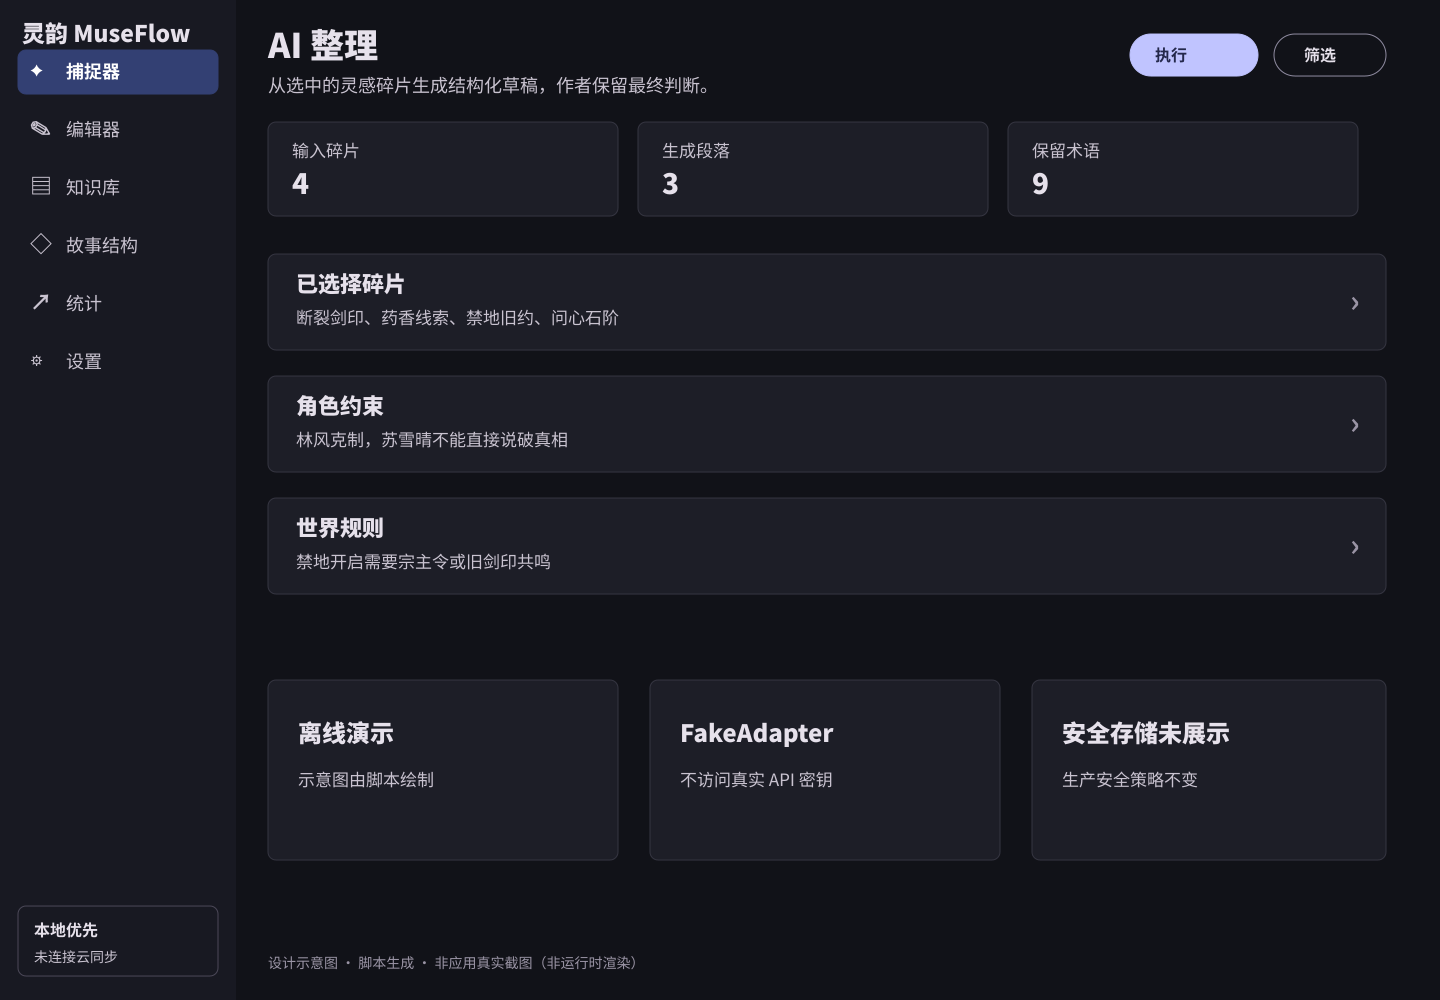
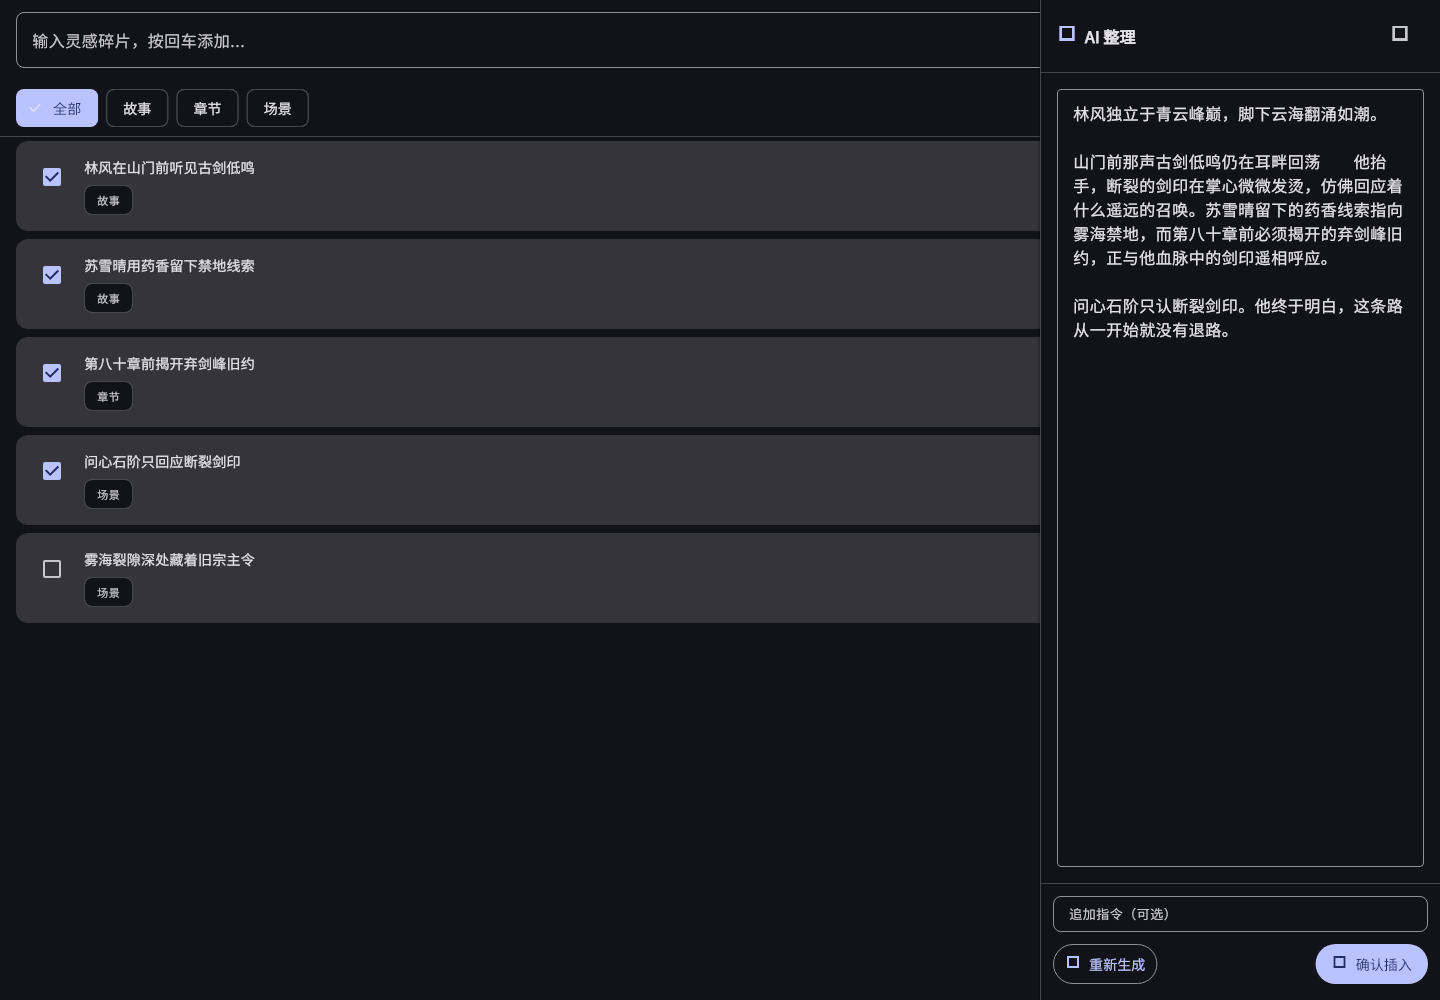
docs(readme): real golden render replaces ai-organization mockup
README #03 AI 整理 → CapturePage + SynthesisPanel 真实 widget golden 渲染（替代 SVG mockup）。
override synthesisProvider accumulatedText(修仙草稿3段)+isEditing=true 显示编辑面板。README.md/en.md
disclosure 清单 4 处加入「AI 整理(3)/AI organization(3)」。

diff --git a/test/readme_screenshots/ai_organization_test.dart b/test/readme_screenshots/ai_organization_test.dart
@@ -1,0 +1,157 @@
+/// Real widget screenshot generator for the README ai-organization image (#03).
+///
+/// Renders the **actual** [CapturePage] with the [SynthesisPanel] overlay showing
+/// a completed AI-organized draft: the "AI 整理把碎片组织成结构化草稿" view.
+///
+/// `captureProvider` is seeded with fragments (the panel overlays the capture
+/// page). `synthesisProvider` is seeded with `accumulatedText` (the synthesized
+/// draft) + `isEditing: true`, which makes CapturePage show the panel
+/// (`showPanel = isStreaming || isEditing || error`) and makes SynthesisPanel's
+/// `_buildContentArea` render the editable draft TextField (the
+/// `isEditing || accumulatedText.isNotEmpty` branch).
+///
+/// The TextField is not autofocus → no blinking cursor → no cursor flake. The
+/// panel's AnimatedContainer (250ms) is at its final state after pumpAndSettle.
+///
+/// CapturePage is body-only (hosted by AppShellScaffold's Scaffold in the real
+/// app), so the test wraps it in `Scaffold(body:)` (mirrors #02).
+///
+/// Shares the bundled universal GB2312 subset `test_assets/noto_sans_sc_subset.ttf`.
+///
+/// Regenerate after changing the page or seed data:
+///   flutter test test/readme_screenshots/ai_organization_test.dart --update-goldens
+library;
+
+import 'dart:io';
+
+import 'package:flutter/material.dart';
+import 'package:flutter/services.dart';
+import 'package:flutter_riverpod/flutter_riverpod.dart';
+import 'package:flutter_test/flutter_test.dart';
+import 'package:museflow/core/domain/fragment.dart';
+import 'package:museflow/features/ai/presentation/synthesis_notifier.dart';
+import 'package:museflow/features/capture/presentation/capture_page.dart';
+import 'package:museflow/features/capture/presentation/capture_provider.dart';
+
+void main() {
+  setUpAll(() async {
+    final bytes = await File('test_assets/noto_sans_sc_subset.ttf').readAsBytes();
+    final loader = FontLoader('Noto Sans CJK SC');
+    loader.addFont(Future.value(ByteData.sublistView(bytes)));
+    await loader.load();
+  });
+
+  testWidgets('CapturePage + SynthesisPanel renders a real 1440x1000 screenshot',
+      (tester) async {
+    tester.view.physicalSize = const Size(1440, 1000);
+    tester.view.devicePixelRatio = 1.0;
+    addTearDown(tester.view.resetPhysicalSize);
+    addTearDown(tester.view.resetDevicePixelRatio);
+
+    await tester.pumpWidget(
+      ProviderScope(
+        overrides: [
+          captureProvider.overrideWith(() => _SeededCaptureNotifier()),
+          synthesisProvider.overrideWith(() => _SeededSynthesisNotifier()),
+        ],
+        child: MaterialApp(
+          debugShowCheckedModeBanner: false,
+          theme: _screenshotTheme(),
+          home: const Scaffold(body: CapturePage()),
+        ),
+      ),
+    );
+    await tester.pumpAndSettle();
+
+    // Prove the synthesis panel + editable draft rendered: the 'AI 整理' header
+    // (a Text widget) is present, and the editing TextField branch rendered.
+    // (find.text cannot see text inside a TextField's controller — the draft is
+    // rendered in the editing TextField via _editController sync, captured by the
+    // golden even though not assertable via find.text.)
+    expect(find.text('AI 整理'), findsOneWidget);
+    expect(find.byType(TextField), findsWidgets);
+
+    await expectLater(
+      find.byType(CapturePage),
+      matchesGoldenFile('../../docs/readme/screenshots/03-ai-organization.png'),
+    );
+  });
+}
+
+/// Seeded SynthesisNotifier returning a completed, editable draft (isEditing).
+class _SeededSynthesisNotifier extends SynthesisNotifier {
+  @override
+  SynthesisState build() => const SynthesisState(
+        accumulatedText: _synthesizedDraft,
+        isEditing: true,
+      );
+}
+
+const String _synthesizedDraft = '''林风独立于青云峰巅，脚下云海翻涌如潮。
+
+山门前那声古剑低鸣仍在耳畔回荡——他抬手，断裂的剑印在掌心微微发烫，仿佛回应着什么遥远的召唤。苏雪晴留下的药香线索指向雾海禁地，而第八十章前必须揭开的弃剑峰旧约，正与他血脉中的剑印遥相呼应。
+
+问心石阶只认断裂剑印。他终于明白，这条路从一开始就没有退路。''';
+
+/// Seeded CaptureNotifier (mirrors #02) — 6 fragments, 4 selected. The panel
+/// overlays the capture page; the left fragment list peeks behind it.
+class _SeededCaptureNotifier extends CaptureNotifier {
+  @override
+  CaptureState build() {
+    final now = DateTime(2026, 6, 22, 22, 40);
+    final fragments = <Fragment>[
+      Fragment(
+        id: 'f1',
+        text: '林风在山门前听见古剑低鸣',
+        tags: const ['故事'],
+        createdAt: now.subtract(const Duration(hours: 2, minutes: 8)),
+      ),
+      Fragment(
+        id: 'f2',
+        text: '苏雪晴用药香留下禁地线索',
+        tags: const ['故事'],
+        createdAt: now.subtract(const Duration(hours: 2, minutes: 14)),
+      ),
+      Fragment(
+        id: 'f3',
+        text: '第八十章前揭开弃剑峰旧约',
+        tags: const ['章节'],
+        createdAt: now.subtract(const Duration(hours: 2, minutes: 20)),
+      ),
+      Fragment(
+        id: 'f4',
+        text: '问心石阶只回应断裂剑印',
+        tags: const ['场景'],
+        createdAt: now.subtract(const Duration(hours: 2, minutes: 28)),
+      ),
+      Fragment(
+        id: 'f5',
+        text: '雾海裂隙深处藏着旧宗主令',
+        tags: const ['场景'],
+        createdAt: now.subtract(const Duration(hours: 1, minutes: 50)),
+      ),
+    ];
+    return CaptureState(
+      fragments: fragments,
+      selectedIds: const {'f1', 'f2', 'f3', 'f4'},
+      activeFilter: '全部',
+      isLoading: false,
+    );
+  }
+}
+
+ThemeData _screenshotTheme() {
+  final colorScheme = ColorScheme.fromSeed(
+    seedColor: Colors.indigo,
+    brightness: Brightness.dark,
+  );
+  final base = Typography.material2021().white.apply(fontFamily: 'Noto Sans CJK SC');
+  return ThemeData(
+    colorScheme: colorScheme,
+    useMaterial3: true,
+    textTheme: base.apply(
+      bodyColor: colorScheme.onSurface,
+      displayColor: colorScheme.onSurface,
+    ),
+  );
+}

diff --git a/README.en.md b/README.en.md
@@ -36,7 +36,7 @@ The Chinese name, 灵韵, means the spirit and rhythm of inspiration. MuseFlow c
 
 ## User Journey & UI Mockups
 
-The images below illustrate each feature module. The **Manuscript library** (1st image), the **Capture inbox** (2nd image), the **Character cards** (6th image), the **World settings** (7th image), the **Template gallery** (8th image), the **Skill rules** (9th image), the **Foreshadowing** (10th image), the **Plot timeline** (11th image), the **Logic guardian** (13th image), the **Finish & export** (14th image), the **Writing stats** (15th image), the **Token audit** (16th image), the **Analysis reports hub** (17th image), the **Report details** (18th image), the **Settings** (19th image), the **AI providers** (20th image) and the **AI phrase filter** (21st image) are real widget renders, deterministically produced by the golden tests under `test/readme_screenshots/` (with a bundled Noto Sans CJK SC subset for cross-platform-consistent Chinese, using offline demo data); the rest are design mockups programmatically drawn by `scripts/generate_readme_screenshots.mjs` (SVG → PNG, not live renders). We follow a xianxia serial author's journey to walk through idea capture, manuscript management, chapter writing, knowledge management, structure tracking, analytics, and model configuration. All images use offline demo data and never read real API keys; real screenshots are being migrated page-by-page from mockups via golden tests.
+The images below illustrate each feature module. The **Manuscript library** (1st image), the **Capture inbox** (2nd image), the **AI organization** (3rd image), the **Character cards** (6th image), the **World settings** (7th image), the **Template gallery** (8th image), the **Skill rules** (9th image), the **Foreshadowing** (10th image), the **Plot timeline** (11th image), the **Logic guardian** (13th image), the **Finish & export** (14th image), the **Writing stats** (15th image), the **Token audit** (16th image), the **Analysis reports hub** (17th image), the **Report details** (18th image), the **Settings** (19th image), the **AI providers** (20th image) and the **AI phrase filter** (21st image) are real widget renders, deterministically produced by the golden tests under `test/readme_screenshots/` (with a bundled Noto Sans CJK SC subset for cross-platform-consistent Chinese, using offline demo data); the rest are design mockups programmatically drawn by `scripts/generate_readme_screenshots.mjs` (SVG → PNG, not live renders). We follow a xianxia serial author's journey to walk through idea capture, manuscript management, chapter writing, knowledge management, structure tracking, analytics, and model configuration. All images use offline demo data and never read real API keys; real screenshots are being migrated page-by-page from mockups via golden tests.
 
 ### 1. Manage Multiple Works
 
@@ -167,7 +167,7 @@ flutter test
 flutter build web --release
 ```
 
-This README's showcase material: the **Manuscript library** (01), the **Capture inbox** (02), the **Character cards** (06), the **World settings** (07), the **Template gallery** (08), the **Skill rules** (09), the **Foreshadowing** (10), the **Plot timeline** (11), the **Logic guardian** (13), the **Finish & export** (14), the **Writing stats** (15), the **Token audit** (16), the **Analysis reports hub** (17), the **Report details** (18), the **Settings** (19), the **AI providers** (20) and the **AI phrase filter** (21) are real widget renders (generated by golden tests), the rest are design mockups drawn by `scripts/generate_readme_screenshots.mjs` (SVG → PNG). All use offline demo data with no real API keys; real screenshots are being migrated page-by-page from mockups via golden tests.
+This README's showcase material: the **Manuscript library** (01), the **Capture inbox** (02), the **AI organization** (03), the **Character cards** (06), the **World settings** (07), the **Template gallery** (08), the **Skill rules** (09), the **Foreshadowing** (10), the **Plot timeline** (11), the **Logic guardian** (13), the **Finish & export** (14), the **Writing stats** (15), the **Token audit** (16), the **Analysis reports hub** (17), the **Report details** (18), the **Settings** (19), the **AI providers** (20) and the **AI phrase filter** (21) are real widget renders (generated by golden tests), the rest are design mockups drawn by `scripts/generate_readme_screenshots.mjs` (SVG → PNG). All use offline demo data with no real API keys; real screenshots are being migrated page-by-page from mockups via golden tests.
 
 ## v1.3 User Journey Showcase
 